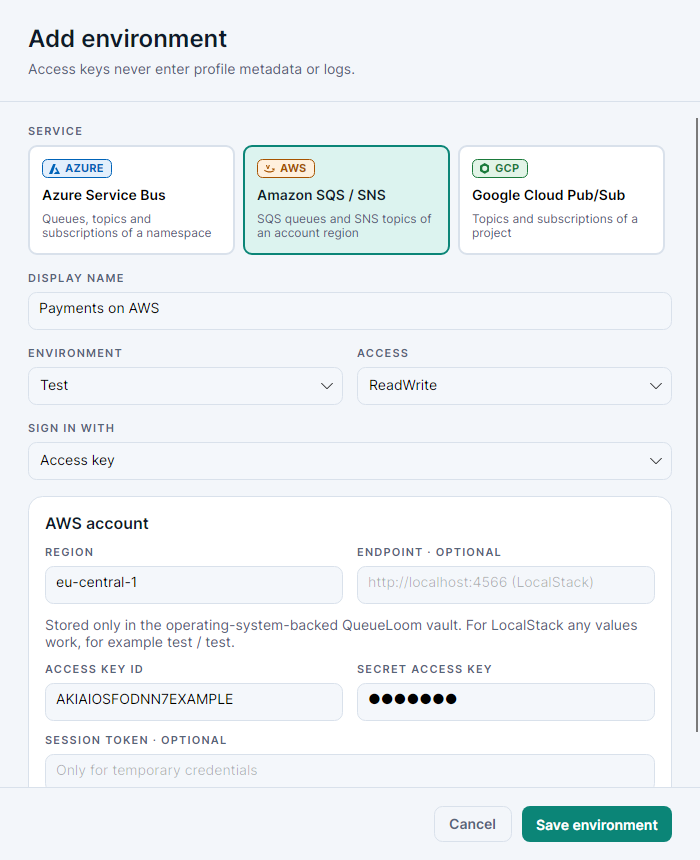
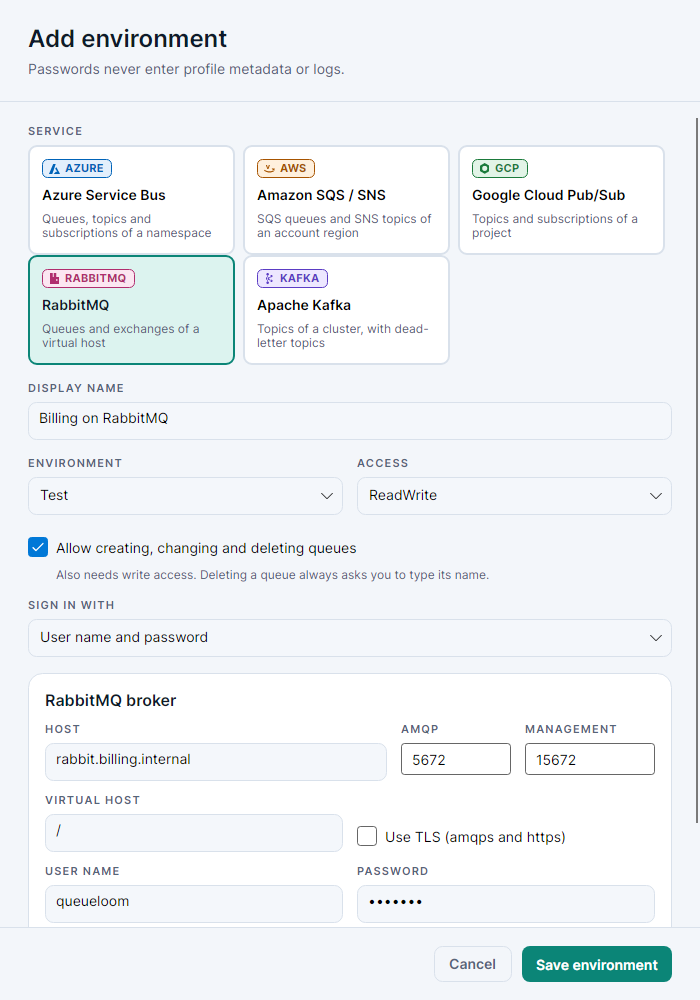
README and screenshots for RabbitMQ, Kafka, dead-letter history and queue management; wait for quorum queue counts in the RabbitMQ test

diff --git a/tests/QueueLoom.UiTests/CloudProviderUiTests.cs b/tests/QueueLoom.UiTests/CloudProviderUiTests.cs
@@ -23,7 +23,8 @@ public sealed class CloudProviderUiTests
         var page = fixture.Window.GetVisualDescendants().OfType<QueueLoom.App.Views.Pages.EnvironmentsPage>().Single();
         var badges = page.GetVisualDescendants().OfType<ProviderBadge>().Where(badge => badge.IsVisible).ToArray();
         Assert.Equal(
-            [MessagingProvider.AzureServiceBus, MessagingProvider.AzureServiceBus, MessagingProvider.AmazonSqsSns, MessagingProvider.GooglePubSub],
+            [MessagingProvider.AzureServiceBus, MessagingProvider.AzureServiceBus, MessagingProvider.AmazonSqsSns, MessagingProvider.GooglePubSub,
+             MessagingProvider.RabbitMq, MessagingProvider.Kafka],
             badges.Select(badge => badge.Provider!.Value).Order());
         Assert.Contains(page.GetVisualDescendants().OfType<TextBlock>(), text => text.Text == "Amazon SQS / SNS");
         Assert.Contains(page.GetVisualDescendants().OfType<TextBlock>(), text => text.Text == "shipping-dev-2231");
@@ -107,6 +108,18 @@ public sealed class CloudProviderUiTests
             await fixture.SettleAsync();
             Save(editor, Path.Combine(directory, $"{theme.ToString().ToLowerInvariant()}-editor-aws.png"));
             editor.Close();
+
+            var rabbit = new ProfileEditorViewModel(null) { Name = "Billing on RabbitMQ", Environment = EnvironmentKind.Test };
+            rabbit.SelectedProvider = rabbit.ProviderOptions.Single(option => option.Provider == MessagingProvider.RabbitMq);
+            rabbit.RabbitHost = "rabbit.billing.internal";
+            rabbit.RabbitUserName = "queueloom";
+            rabbit.BrokerPassword = "example";
+            rabbit.AllowQueueManagement = true;
+            var rabbitEditor = new ProfileEditorWindow(rabbit) { Width = 700, Height = 1000 };
+            rabbitEditor.Show();
+            await fixture.SettleAsync();
+            Save(rabbitEditor, Path.Combine(directory, $"{theme.ToString().ToLowerInvariant()}-editor-rabbitmq.png"));
+            rabbitEditor.Close();
         }
         fixture.ViewModel.ThemePreference = AppThemePreference.Dark;
 

diff --git a/tests/QueueLoom.IntegrationTests/RabbitMqWorkspaceTests.cs b/tests/QueueLoom.IntegrationTests/RabbitMqWorkspaceTests.cs
@@ -174,7 +174,14 @@ public sealed class RabbitMqWorkspaceTests : IAsyncLifetime
             Assert.Single(await _workspace.BrowseMessagesAsync(new BrowseMessagesRequest(invoices)));
         }
 
-        Assert.Equal(1u, (await _setup.QueueDeclarePassiveAsync("invoices")).MessageCount);
+        // A quorum queue applies a requeue through Raft, so its ready count can trail the nack for a moment.
+        var ready = 0u;
+        for (var attempt = 0; attempt < 50 && ready == 0; attempt++)
+        {
+            await Task.Delay(100);
+            ready = (await _setup.QueueDeclarePassiveAsync("invoices")).MessageCount;
+        }
+        Assert.Equal(1u, ready);
         Assert.Equal(0u, (await _setup.QueueDeclarePassiveAsync("invoices.dlq")).MessageCount);
     }
 

diff --git a/tests/QueueLoom.UiTests/UiHarness.cs b/tests/QueueLoom.UiTests/UiHarness.cs
@@ -174,7 +174,8 @@ internal sealed class WindowFixture : IAsyncDisposable
         var fixture = !connect
             ? new WindowFixture()
             : allClouds
-                ? new WindowFixture(DemoData.Development, DemoData.Production, DemoData.AwsStaging, DemoData.GoogleDevelopment)
+                ? new WindowFixture(DemoData.Development, DemoData.Production, DemoData.AwsStaging, DemoData.GoogleDevelopment,
+                    DemoData.RabbitStaging, DemoData.KafkaDevelopment)
                 : new WindowFixture(DemoData.Development, DemoData.Production);
         fixture.Window.Show();
         await fixture.SettleAsync();

diff --git a/README.md b/README.md
@@ -1,19 +1,19 @@
 # QueueLoom
 
-A desktop app for Windows, macOS and Linux for message queues in **Azure Service Bus**, **Amazon SQS / SNS** and **Google Cloud Pub/Sub**. Browse queues, topics and subscriptions, find messages in dead-letter queues, and back up, delete, resend or restore them safely. AI assistants (Claude, Cursor, VS Code) can use it too, through MCP.
+A desktop app for Windows, macOS and Linux for message queues in **Azure Service Bus**, **Amazon SQS / SNS**, **Google Cloud Pub/Sub**, **RabbitMQ** and **Apache Kafka**. Browse queues, topics and subscriptions, find messages in dead-letter queues, and back up, delete, resend or restore them safely. AI assistants (Claude, Cursor, VS Code) can use it too, through MCP.
 
 ![QueueLoom: dead-letter search with two messages ticked for deletion](docs/images/messages-dark.png)
 
 <table>
   <tr>
-    <td><img src="docs/images/environments-dark.png" alt="Environments in three clouds"></td>
-    <td><img src="docs/images/add-environment-light.png" alt="Adding an AWS environment"></td>
-    <td><img src="docs/images/aws-explorer-dark.png" alt="Explorer with SQS queues and SNS topics"></td>
+    <td><img src="docs/images/environments-dark.png" alt="Environments in five services"></td>
+    <td><img src="docs/images/add-environment-light.png" alt="Adding a RabbitMQ environment"></td>
+    <td><img src="docs/images/monitors-history-dark.png" alt="Dead-letter history on Monitors"></td>
   </tr>
   <tr>
-    <td align="center">Environments in three clouds</td>
+    <td align="center">Environments in five services</td>
     <td align="center">Add environment</td>
-    <td align="center">SQS queues and SNS topics</td>
+    <td align="center">Dead-letter history</td>
   </tr>
 </table>
 
@@ -33,10 +33,12 @@ Download the package for your system from [Releases](../../releases). No .NET in
    - **Azure Service Bus**: Microsoft Entra ID or a connection string.
    - **Amazon SQS / SNS**: a region and an access key, or your AWS profile.
    - **Google Cloud Pub/Sub**: a project ID and a service account key, or `gcloud` default credentials.
+   - **RabbitMQ**: host, virtual host, user and password. The management plugin must be on (it lists the queues).
+   - **Apache Kafka**: bootstrap servers, with or without TLS and SASL.
 2. Choose the environment in the top bar and press **Connect**.
 3. **Explorer** shows every queue, topic and subscription with live counters. Select one and press **View DLQ** or **View active**.
 
-The badge next to each environment (**AZURE**, **AWS**, **GCP**) shows its cloud, and the coloured dot shows its stage: dev, test or prod. The connected environment's cloud and namespace, region or project are always visible in the top bar.
+The badge next to each environment (**AZURE**, **AWS**, **GCP**, **RABBITMQ**, **KAFKA**) shows its service, and the coloured dot shows its stage: dev, test or prod. The connected environment's service and namespace, region, project, host or cluster are always visible in the top bar.
 
 ## What you can do
 
@@ -45,24 +47,29 @@ The badge next to each environment (**AZURE**, **AWS**, **GCP**) shows its cloud
 - **Resend.** Tick messages and press **Resend N messages…**: back to where they came from or to any queue or topic, as **copies** (the originals stay) or as a **move** (sent first, then the originals are backed up and removed from the DLQ). In **Composer**, **Open as draft** lets you edit one message before sending it the same two ways.
 - **Read packed bodies.** Bodies compressed with gzip, encoded as base64, written as Avro files or as Protobuf open on a **Decoded** tab next to **Body**, with the steps shown (for example *base64 → gzip → JSON*). Protobuf fields are shown by number, since QueueLoom has no .proto file.
 - **Export** the ticked or listed messages to JSON or CSV.
-- **Empty a dead-letter queue**, with a limit on how many messages to remove.
+- **Empty a dead-letter queue** with **Backup and purge**, with a limit on how many messages to remove.
 - **Restore from backups** or replay copies to any queue or topic. On **Backups**, pick a group on the left (an environment, a topic with its subscriptions, a subscription or a queue) and delete all its backups at once, or keep backups for a set number of days.
-- **Watch dead-letter counts** on **Monitors** while the app is open. New dead letters can also show a system notification and post to a Slack or Microsoft Teams webhook.
+- **Watch dead-letter counts** on **Monitors** while the app is open. New dead letters can also show a system notification and post to a Slack or Microsoft Teams webhook. The **Dead-letter history** chart shows how the count changed over the last 6 hours to 30 days, with the peak and the queues that grew; every monitor check and scan is recorded.
+- **Manage queues** (optional). Turn on **Allow creating, changing and deleting queues** for an environment, and **Explorer** → **Manage** creates a queue with its dead-letter queue, changes its settings (time to live, deliveries before dead-lettering, lock) or deletes it. Deleting asks you to type the queue name.
 - **Session-enabled** Azure queues and subscriptions work too: their dead letters like any other, their active messages session by session.
 - **Scheduled and deferred** Azure messages are marked in the list of active messages, with the time a scheduled one is due. Tick them (or click **Scheduled** or **Deferred** above the list) to cancel or remove them; each is backed up first.
 
 QueueLoom never deletes anything without a local backup, and it asks for confirmation first. Production environments are read-only until you press **Unlock 10 min** and type the environment name.
 
-## How AWS and Google Cloud look in QueueLoom
+## How the other services look in QueueLoom
 
-| | Amazon SQS / SNS | Google Cloud Pub/Sub |
-|---|---|---|
-| Queues | SQS queues | none |
-| Topics and subscriptions | SNS topics and their subscriptions | topics and subscriptions |
-| Dead-letter queue | the queue in the redrive policy | a subscription on the dead-letter topic |
-| Counters | approximate, from SQS | from Cloud Monitoring (needs the Monitoring Viewer role); otherwise dead letters are counted when you scan |
+| | Amazon SQS / SNS | Google Cloud Pub/Sub | RabbitMQ | Apache Kafka |
+|---|---|---|---|---|
+| Queues | SQS queues | none | queues | topics |
+| Topics | SNS topics and their subscriptions | topics and subscriptions | exchanges (the subject is the routing key) | none |
+| Dead-letter queue | the queue in the redrive policy | a subscription on the dead-letter topic | the queue the dead-letter exchange routes to | the topic with a dead-letter ending, for example `orders.DLT` |
+| Counters | approximate, from SQS | from Cloud Monitoring (needs the Monitoring Viewer role); otherwise counted when you scan | ready messages, from the management plugin | messages the topic still keeps |
 
-SQS and Pub/Sub cannot peek. To show messages, QueueLoom receives them and hands them back unchanged a moment later. This counts as one more receive (SQS) or delivery attempt (Pub/Sub), and in SQS FIFO queues it shows up to 10 messages per message group. For local testing, set the endpoint to [LocalStack](https://localstack.cloud) (`http://localhost:4566`) or the Pub/Sub emulator (`localhost:8085`).
+SQS, Pub/Sub and RabbitMQ cannot peek. To show messages, QueueLoom receives them and hands them back unchanged a moment later. This counts as one more receive (SQS) or delivery attempt (Pub/Sub); in RabbitMQ the message is only marked as redelivered, and quorum queues do not count it towards their delivery limit. In SQS FIFO queues it shows up to 10 messages per message group.
+
+Kafka keeps messages after they are read, so QueueLoom reads them by offset, without a consumer group. Kafka cannot delete single messages: **Delete** and **move** are not offered there, but **Backup and purge** still backs up and deletes the messages of a dead-letter topic.
+
+For local testing, point an environment at [LocalStack](https://localstack.cloud) (`http://localhost:4566`), the Pub/Sub emulator (`localhost:8085`), a `rabbitmq:4-management` container or an `apache/kafka` container.
 
 ## Keyboard shortcuts
 
@@ -102,7 +109,7 @@ QueueLoom can act as an [MCP](https://modelcontextprotocol.io) server, so an ass
 
 **What the assistant may do:**
 - **Read freely:** list environments and queues, scan and search dead letters, view messages, and export them to a JSON or CSV file (saved in the `exports` folder of the data folder). Reading never removes anything.
-- **Change only with your approval:** delete messages, empty a dead-letter queue, resend dead letters (as copies or as a move) or send a message. QueueLoom shows you this window, and nothing happens until you press **Approve**:
+- **Change only with your approval:** delete messages, empty a dead-letter queue, resend dead letters (as copies or as a move) or send a message. Creating and deleting queues is not available to assistants. QueueLoom shows you this window, and nothing happens until you press **Approve**:
 
 <img src="docs/images/mcp-approval.png" alt="QueueLoom asking to approve a deletion requested by an AI assistant" width="520">
 
@@ -116,4 +123,4 @@ Backups are saved in the `backups` folder next to `QueueLoom.exe` (on Linux and 
 
 ---
 
-Build from source: `dotnet test QueueLoom.slnx` (.NET 10 SDK). Tests against LocalStack, the Pub/Sub emulator and the Service Bus emulator run when `QUEUELOOM_LOCALSTACK_URL`, `QUEUELOOM_PUBSUB_EMULATOR` and `QUEUELOOM_SERVICEBUS_EMULATOR` are set. · [MIT License](LICENSE) · [Third-party notices](THIRD-PARTY-NOTICES.md)
+Build from source: `dotnet test QueueLoom.slnx` (.NET 10 SDK). Tests against LocalStack, the Pub/Sub emulator, the Service Bus emulator, RabbitMQ and Kafka run when `QUEUELOOM_LOCALSTACK_URL`, `QUEUELOOM_PUBSUB_EMULATOR`, `QUEUELOOM_SERVICEBUS_EMULATOR`, `QUEUELOOM_RABBITMQ` (host:port) and `QUEUELOOM_KAFKA` are set. · [MIT License](LICENSE) · [Third-party notices](THIRD-PARTY-NOTICES.md)
